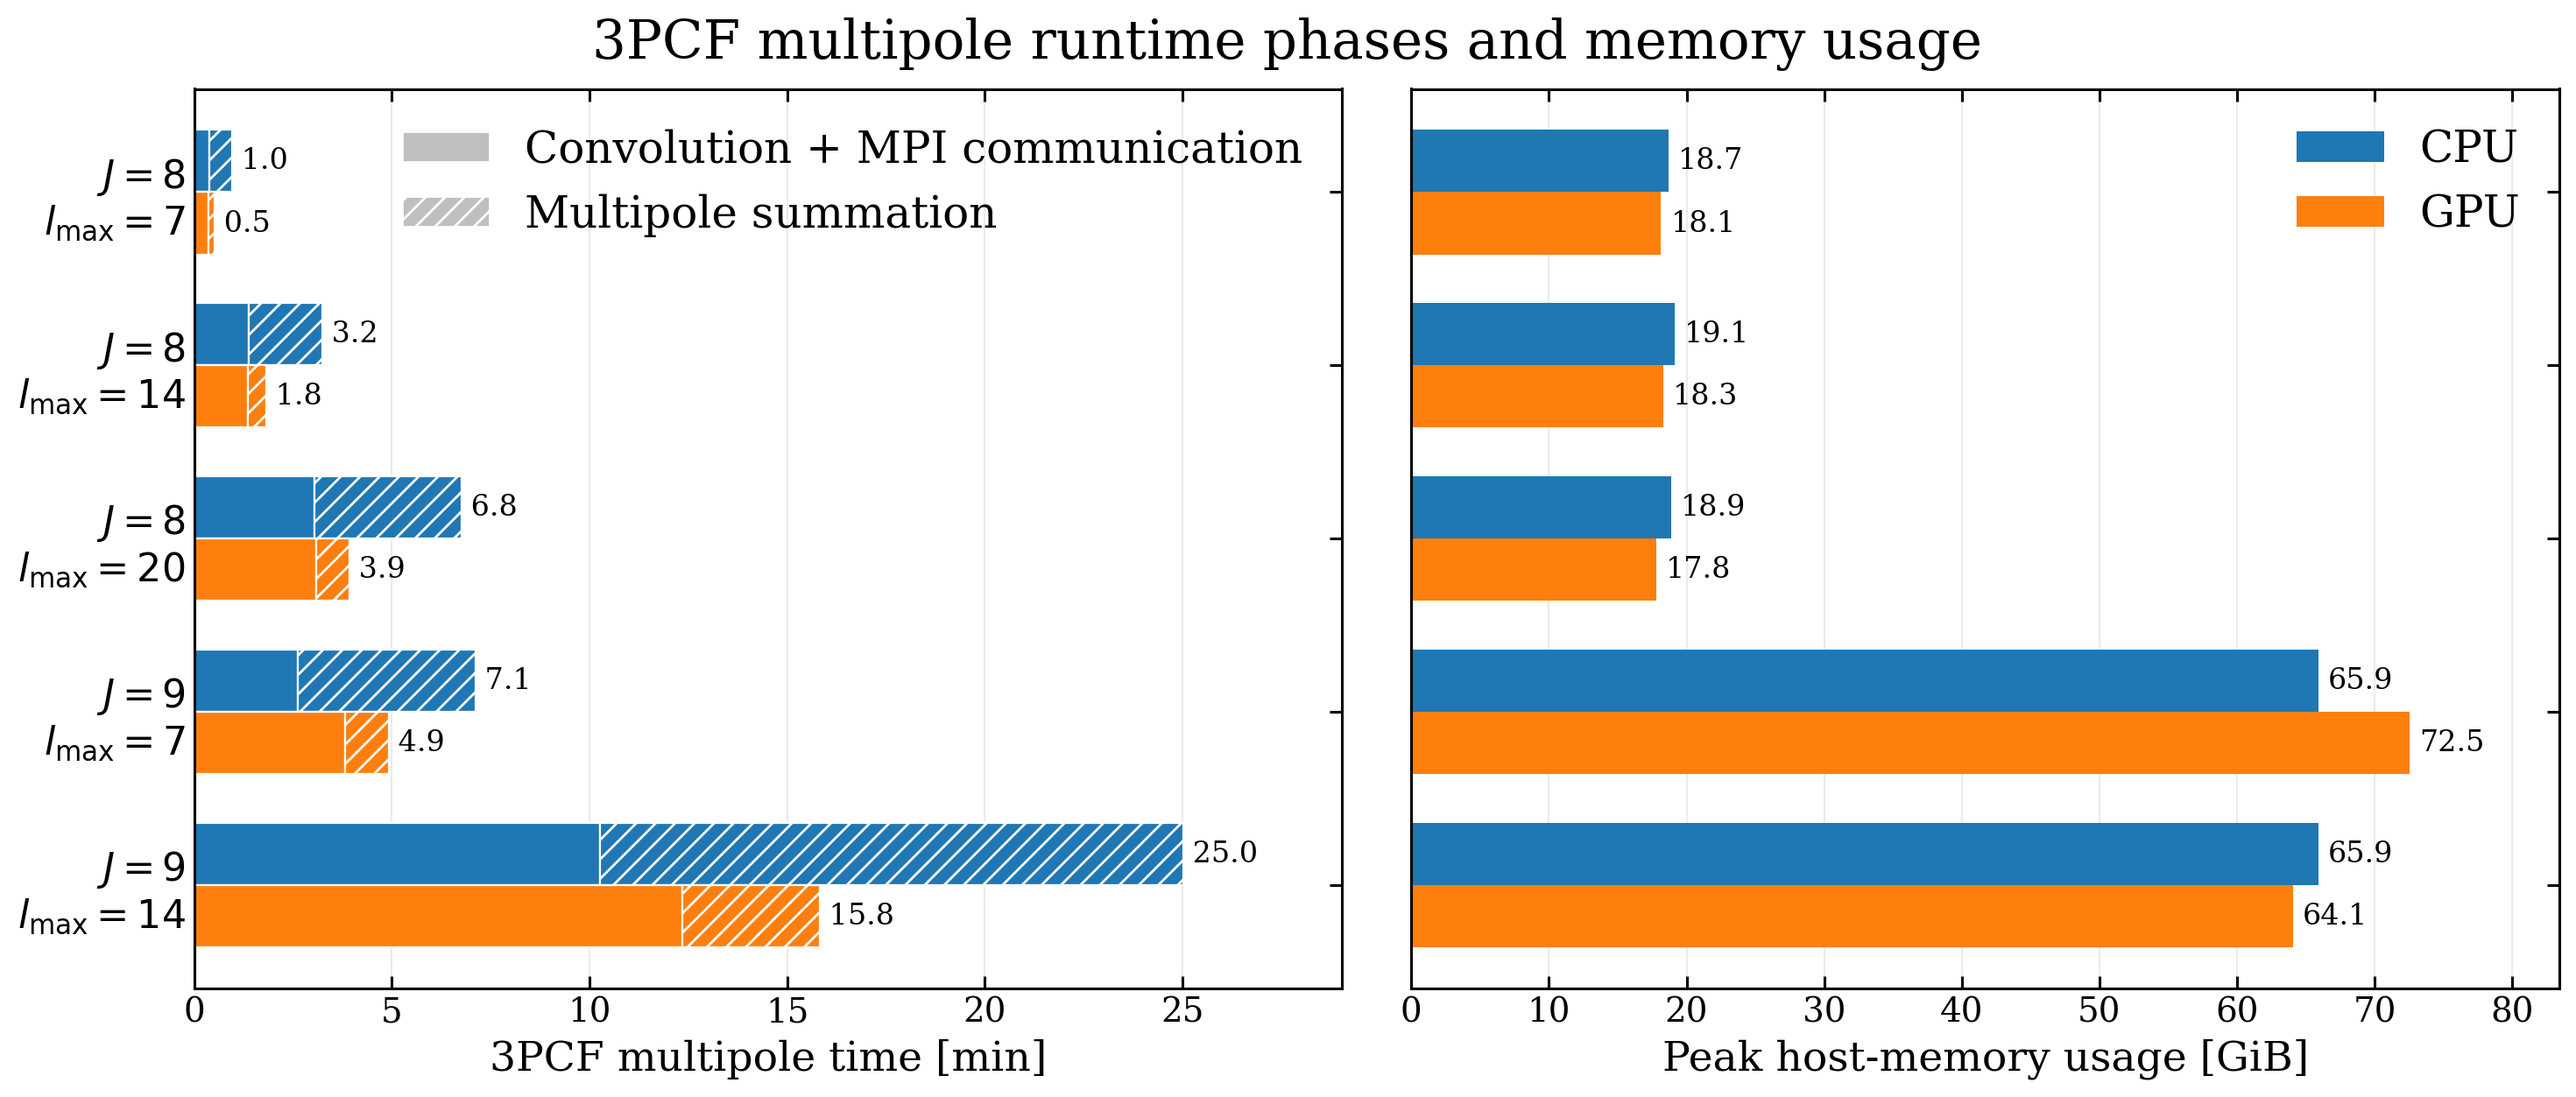
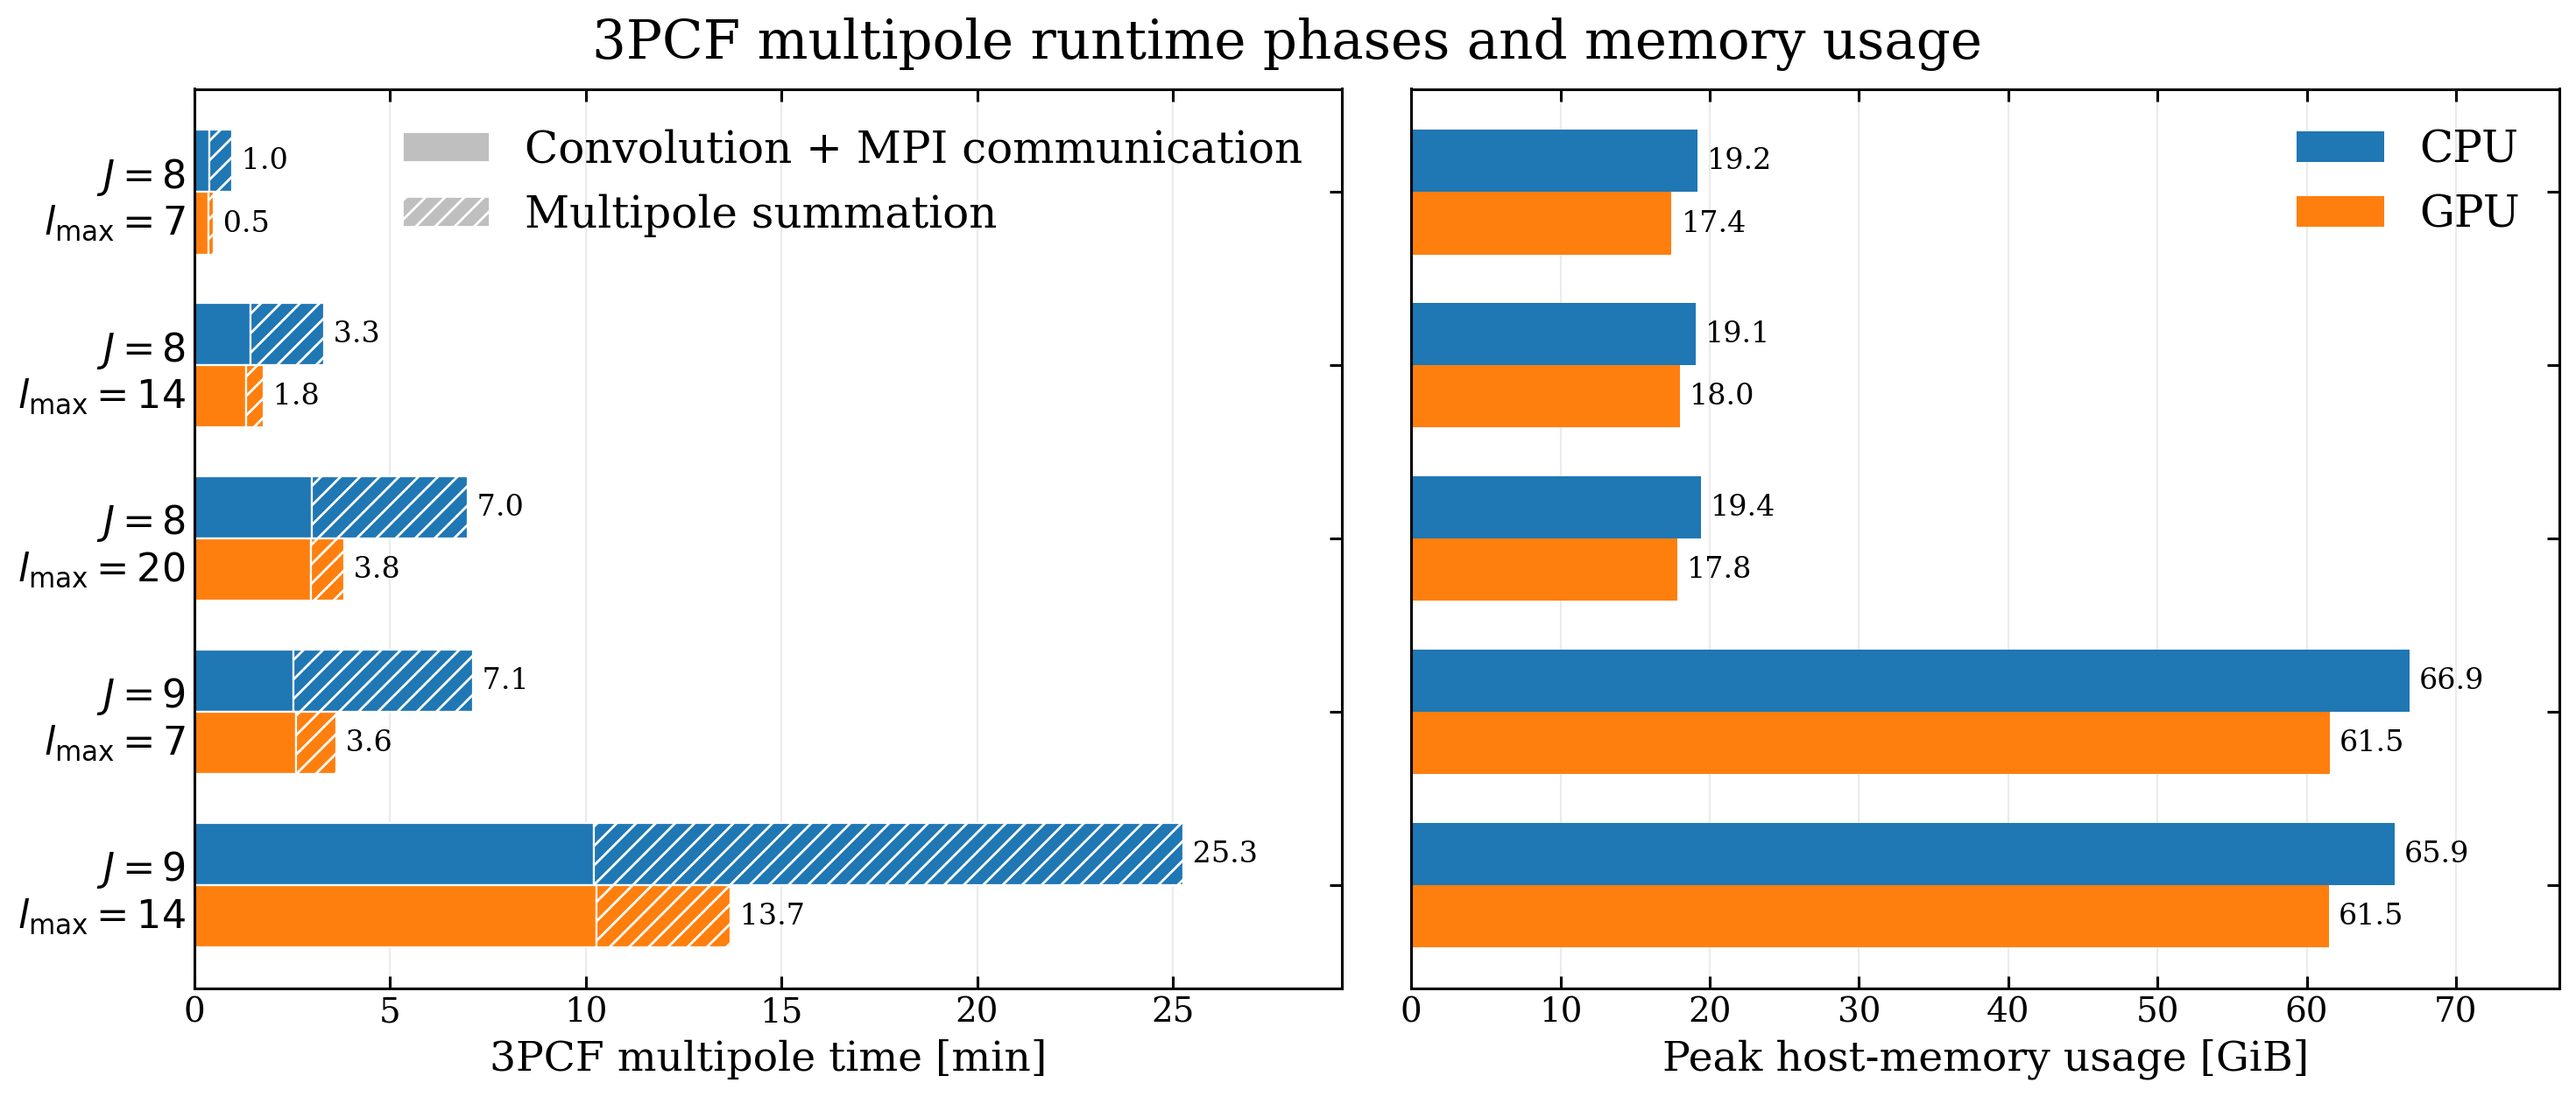
Enhance benchmark documentation with detailed performance metrics and updated terminology

diff --git a/docs/benchmark.rst b/docs/benchmark.rst
@@ -156,17 +156,56 @@ job often benefits from fewer MPI ranks and more threads per rank.
 Current Grouped Benchmark
 -------------------------
 
+The representative end-to-end jobs below use the same Quijote field and
+geometric setup as the validation examples.  ``Average time`` is normalized by
+the natural sampling unit of each estimator: one :math:`(s,\mu)` binning window
+for the 2PCF and one centre--rotation--angle combination for the standard 3PCF.
+Memory is the Slurm batch-step ``MaxRSS`` and therefore excludes GPU device
+memory.
+
+.. list-table:: Representative 2PCF and standard-3PCF jobs
+   :header-rows: 1
+   :widths: 13 33 6 10 12 15 11
+
+   * - Product
+     - Representative setup
+     - ``J``
+     - Parallel
+     - Task total
+     - Average time
+     - MaxRSS
+   * - :math:`DD(s,\mu)`
+     - Ring binning windows, ``46 x 51`` samples
+     - 8
+     - ``8 x 8``
+     - 119.7 s
+     - 51.0 ms/sample
+     - 8.7 GiB
+   * - :math:`DDD(\theta;r_{12},r_{13})`
+     - Particle centres, ``Ncen=406728``, ``n_rot=1000``, ``n_theta=20``
+     - 8
+     - ``16 x 8``
+     - 84.0 s
+     - 10.3 ns/comb.
+     - 11.3 GiB
+   * - :math:`DDD(\theta;r_{12},r_{13})`
+     - Box-random centres, ``Ncen=8e6``, ``n_rot=200``, ``n_theta=20``
+     - 8
+     - ``16 x 8``
+     - 280.6 s
+     - 8.77 ns/comb.
+     - 21.2 GiB
+
 The CPU measurements used two AMD EPYC 9754 processors (256 physical cores in
 total).  GPU measurements used one NVIDIA GeForce RTX 4090 with CUDA 12.4.
 ``ranks x threads`` below describes the CPU layout; GPU jobs use the same
 CPU-side convolution layout and an ``(8, 8, 8)`` CUDA block for the final
 contraction.
 
-The table is parsed from the selected completed logs in
-``tests/logs/3pcf_multipole_window23_*`` and the matching Slurm ``sacct``
-records.  ``Field + MPI`` is the multipole-loop residual after subtracting the
-final contraction; it combines convolution and communication because their
-critical paths overlap.  ``Task total`` also includes input, setup, and output
+The multipole table reports the same five configurations on both backends.
+``Convolution + MPI`` is the multipole-loop residual after subtracting the final
+contraction; the two contributions are kept together because their critical
+paths overlap.  ``Task total`` additionally includes input, setup, and output
 overhead.
 
 .. list-table:: Current 3PCF-multipole CPU/GPU benchmark
@@ -178,7 +217,7 @@ overhead.
      - :math:`N_m`
      - Backend
      - Parallel
-     - Field + MPI [s]
+     - Convolution + MPI [s]
      - Sum [s]
      - Task total [s]
      - MaxRSS [GiB]
@@ -187,91 +226,91 @@ overhead.
      - 36
      - CPU
      - ``24 x 4``
-     - 23.1
-     - 34.3
-     - 62.4
-     - 18.7
+     - 23.5
+     - 34.4
+     - 62.8
+     - 19.2
    * - 8
      - 7
      - 36
      - GPU
      - ``24 x 4``
-     - 22.2
-     - 8.4
-     - 36.3
-     - 18.1
+     - 21.9
+     - 8.3
+     - 35.3
+     - 17.4
    * - 8
      - 14
      - 120
      - CPU
      - ``24 x 4``
-     - 82.4
-     - 111.7
-     - 199.0
+     - 86.0
+     - 113.0
+     - 204.0
      - 19.1
    * - 8
      - 14
      - 120
      - GPU
      - ``24 x 4``
-     - 82.0
-     - 27.0
-     - 114.0
-     - 18.3
+     - 80.3
+     - 26.7
+     - 112.2
+     - 18.0
    * - 8
      - 20
      - 231
      - CPU
      - ``24 x 4``
-     - 183.2
-     - 222.3
-     - 410.6
-     - 18.9
+     - 180.6
+     - 238.7
+     - 424.3
+     - 19.4
    * - 8
      - 20
      - 231
      - GPU
      - ``24 x 4``
-     - 184.6
-     - 51.4
-     - 241.1
+     - 178.5
+     - 51.1
+     - 234.6
      - 17.8
    * - 9
      - 7
      - 36
      - CPU
      - ``12 x 8``
-     - 157.7
-     - 269.0
-     - 438.5
-     - 65.9
+     - 152.0
+     - 274.7
+     - 445.2
+     - 66.9
    * - 9
      - 7
      - 36
      - GPU
      - ``12 x 8``
-     - 229.7
-     - 65.3
-     - 311.6
-     - 72.5
+     - 156.5
+     - 62.1
+     - 234.3
+     - 61.5
    * - 9
      - 14
      - 120
      - CPU
      - ``12 x 8``
-     - 615.4
-     - 886.4
-     - 1513.6
+     - 613.0
+     - 903.6
+     - 1528.4
      - 65.9
    * - 9
      - 14
      - 120
      - GPU
      - ``12 x 8``
-     - 740.7
-     - 208.3
-     - 964.6
-     - 64.1
+     - 616.2
+     - 206.0
+     - 833.9
+     - 61.5
 
 CPU and GPU Multipole Backends
 ------------------------------
@@ -292,12 +331,15 @@ end-to-end gain is bounded by the unchanged field and communication stages.
 
 The CPU and GPU products agree to relative :math:`L_2` differences of
 ``9.5e-15--2.2e-14``.  Across the five configurations, GPU contraction is
-``4.1--4.3x`` faster and complete task time is ``1.4--1.75x`` faster.  The
+``4.1--4.7x`` faster and complete task time is ``1.8--1.9x`` faster.  The
 smaller end-to-end ratio is expected because only the contraction is offloaded.
 At fixed ``J``, host memory depends only weakly on ``lmax`` because multipole
-windows are generated and processed sequentially.  Increasing ``J`` has the
-much larger memory effect: it multiplies the three-dimensional coefficient
-count by eight.
+windows are generated and processed sequentially.  The GPU jobs use
+``5.6--9.1%`` less host memory in these measurements, but this comparison does
+not include device memory and is not a total CPU-plus-GPU footprint.  Increasing
+``J`` has the much larger memory effect: it multiplies the three-dimensional
+coefficient count by eight.  Using fewer MPI ranks at ``J=9`` limits the
+observed host-memory increase to approximately ``3.4--3.5x``.
 
 Reproducing the Checks
 ----------------------
@@ -313,7 +355,10 @@ small notebooks:
 * ``tests/notebooks/paper_figures_performance.ipynb`` for the current timing
   and Slurm-memory table used above.
 
-They read existing products rather than rerunning expensive estimators.  The
-corresponding grouped Slurm jobs live under ``tests/slurm``.  Treat absolute
-times as hardware-specific; convergence patterns, stage-level scaling, and
-same-node CPU/GPU ratios are the more portable diagnostics.
+Once the grouped jobs have produced their outputs, these notebooks read the
+saved products rather than rerunning expensive estimators.  The corresponding
+scripts and grouped Slurm recipes live under ``tests/scripts`` and
+``tests/slurm``.  Raw logs and estimator products are treated as transient test
+artifacts and are intentionally not distributed with the repository.  Treat
+absolute times as hardware-specific; convergence patterns, stage-level scaling,
+and same-node CPU/GPU ratios are the more portable diagnostics.
